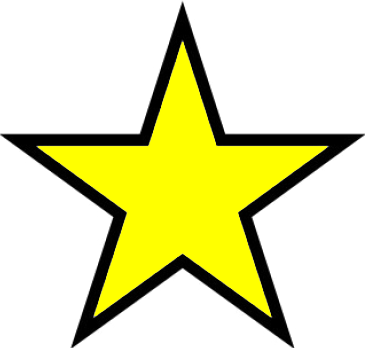
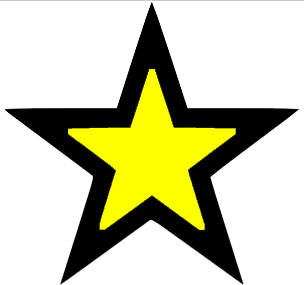
fav star

Changed region(s): [[0.0, 0.0, 1.0, 1.0], [0.2664, 0.9263, 0.2961, 0.9544]]

diff --git a/iStreet/FriendsTableViewController.m b/iStreet/FriendsTableViewController.m
@@ -452,15 +452,15 @@
         if ([matchingUsers count] != 0)
         {
             //Make it a special cell instead.
-            UIImageView *starView = [[UIImageView alloc] initWithImage:[UIImage imageNamed:@"star_yellow.png"]];
-            starView.frame = CGRectMake(250, 10, 20, 20);
+            UIImageView *starView = [[UIImageView alloc] initWithImage:[UIImage imageNamed:@"star_outline_thick.png"]];
+            starView.frame = CGRectMake(250, 5, 30, 30);
             [cell.contentView addSubview:starView];
         }
     }
     else if (indexPath.section == 0)
     {
-        UIImageView *starView = [[UIImageView alloc] initWithImage:[UIImage imageNamed:@"star_yellow.png"]];
-        starView.frame = CGRectMake(250, 10, 20, 20);
+        UIImageView *starView = [[UIImageView alloc] initWithImage:[UIImage imageNamed:@"star_outline_thick.png"]];
+        starView.frame = CGRectMake(250, 5, 30, 30);
         cell.textLabel.text = [[favoriteFriendsList objectAtIndex:indexPath.row] valueForKey:@"name"];
         [cell.contentView addSubview:starView];
     }
@@ -491,8 +491,8 @@
         if ([matchingUsers count] != 0)
         {
             //Make it a special cell instead.
-            UIImageView *starView = [[UIImageView alloc] initWithImage:[UIImage imageNamed:@"star_yellow.png"]];
-            starView.frame = CGRectMake(250, 10, 20, 20);
+            UIImageView *starView = [[UIImageView alloc] initWithImage:[UIImage imageNamed:@"star_outline_thick.png"]];
+            starView.frame = CGRectMake(250, 5, 30, 30);
             [cell.contentView addSubview:starView];
         }
     }

diff --git a/iStreet/EventsAttendingTableViewController.m b/iStreet/EventsAttendingTableViewController.m
@@ -202,7 +202,7 @@
     
     UIImage *grayStar = [UIImage imageNamed:@"star_gray.png"];
 
-    UIImage *orangeStar = [UIImage imageNamed:@"star_yellow.png"];
+    UIImage *orangeStar = [UIImage imageNamed:@"star_orange.png"];
 
     starButton = [UIButton buttonWithType:UIButtonTypeCustom];
     [starButton setBackgroundImage:grayStar forState:UIControlStateNormal];
